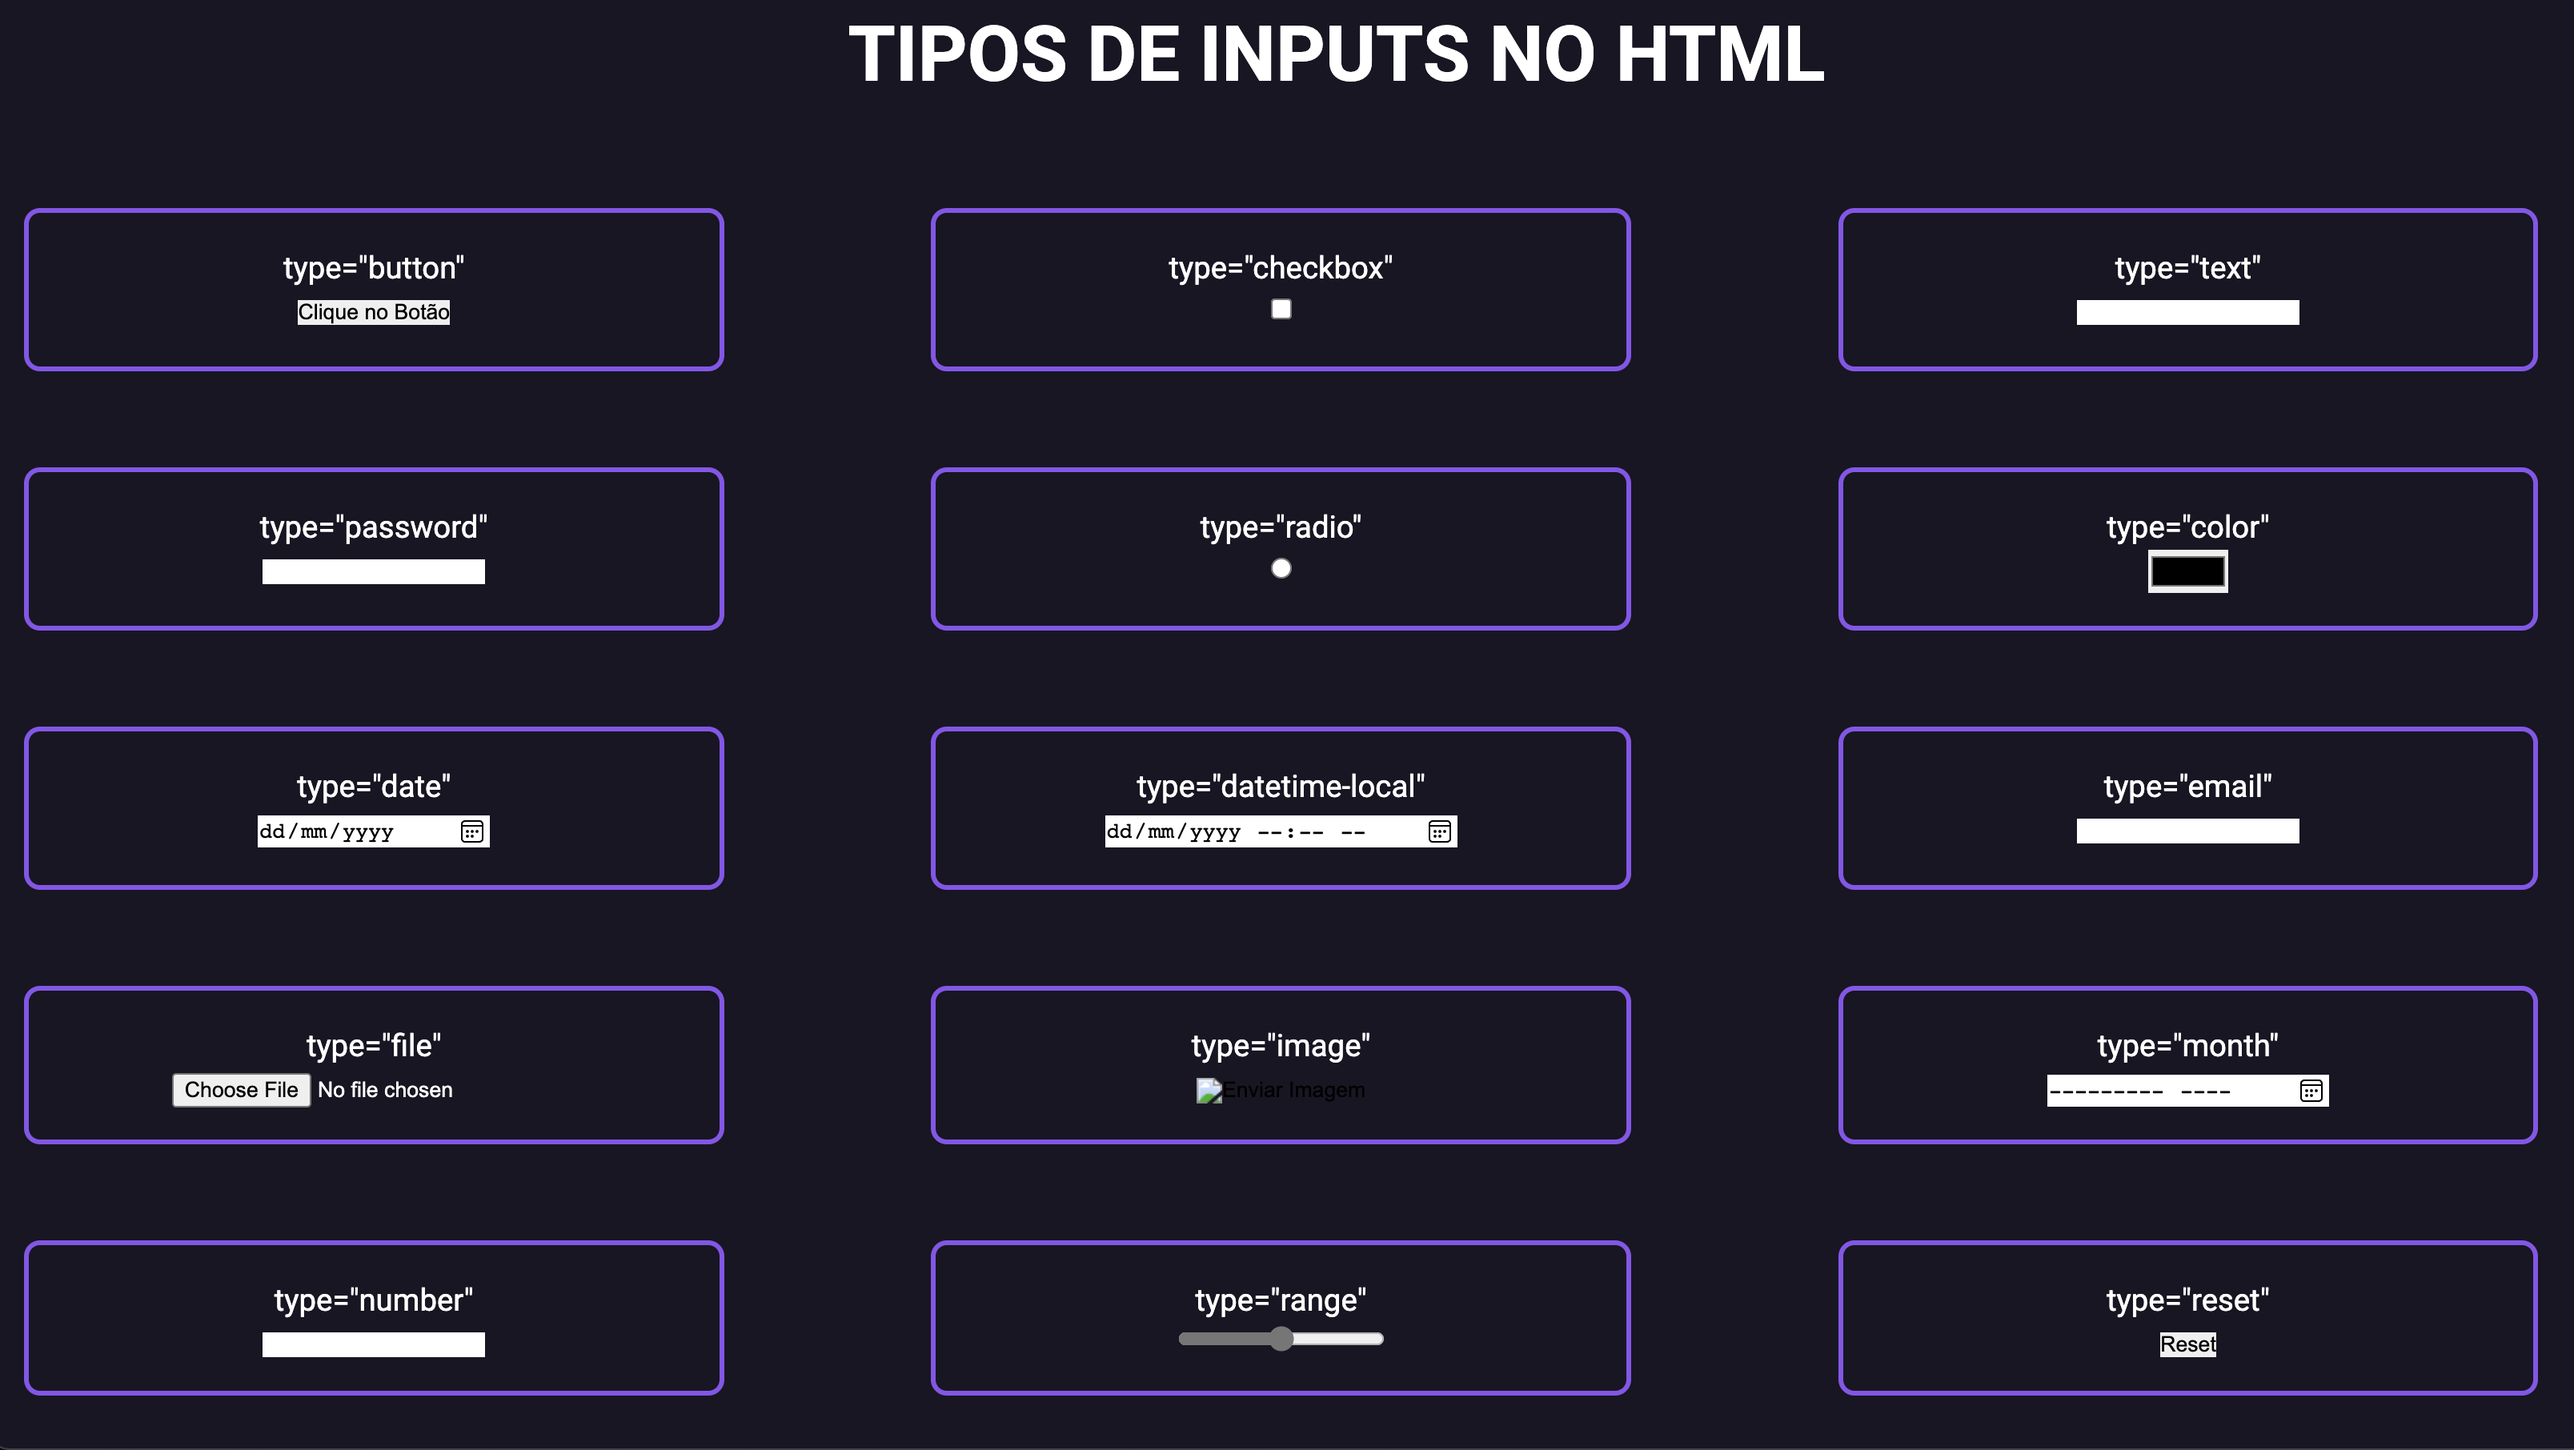
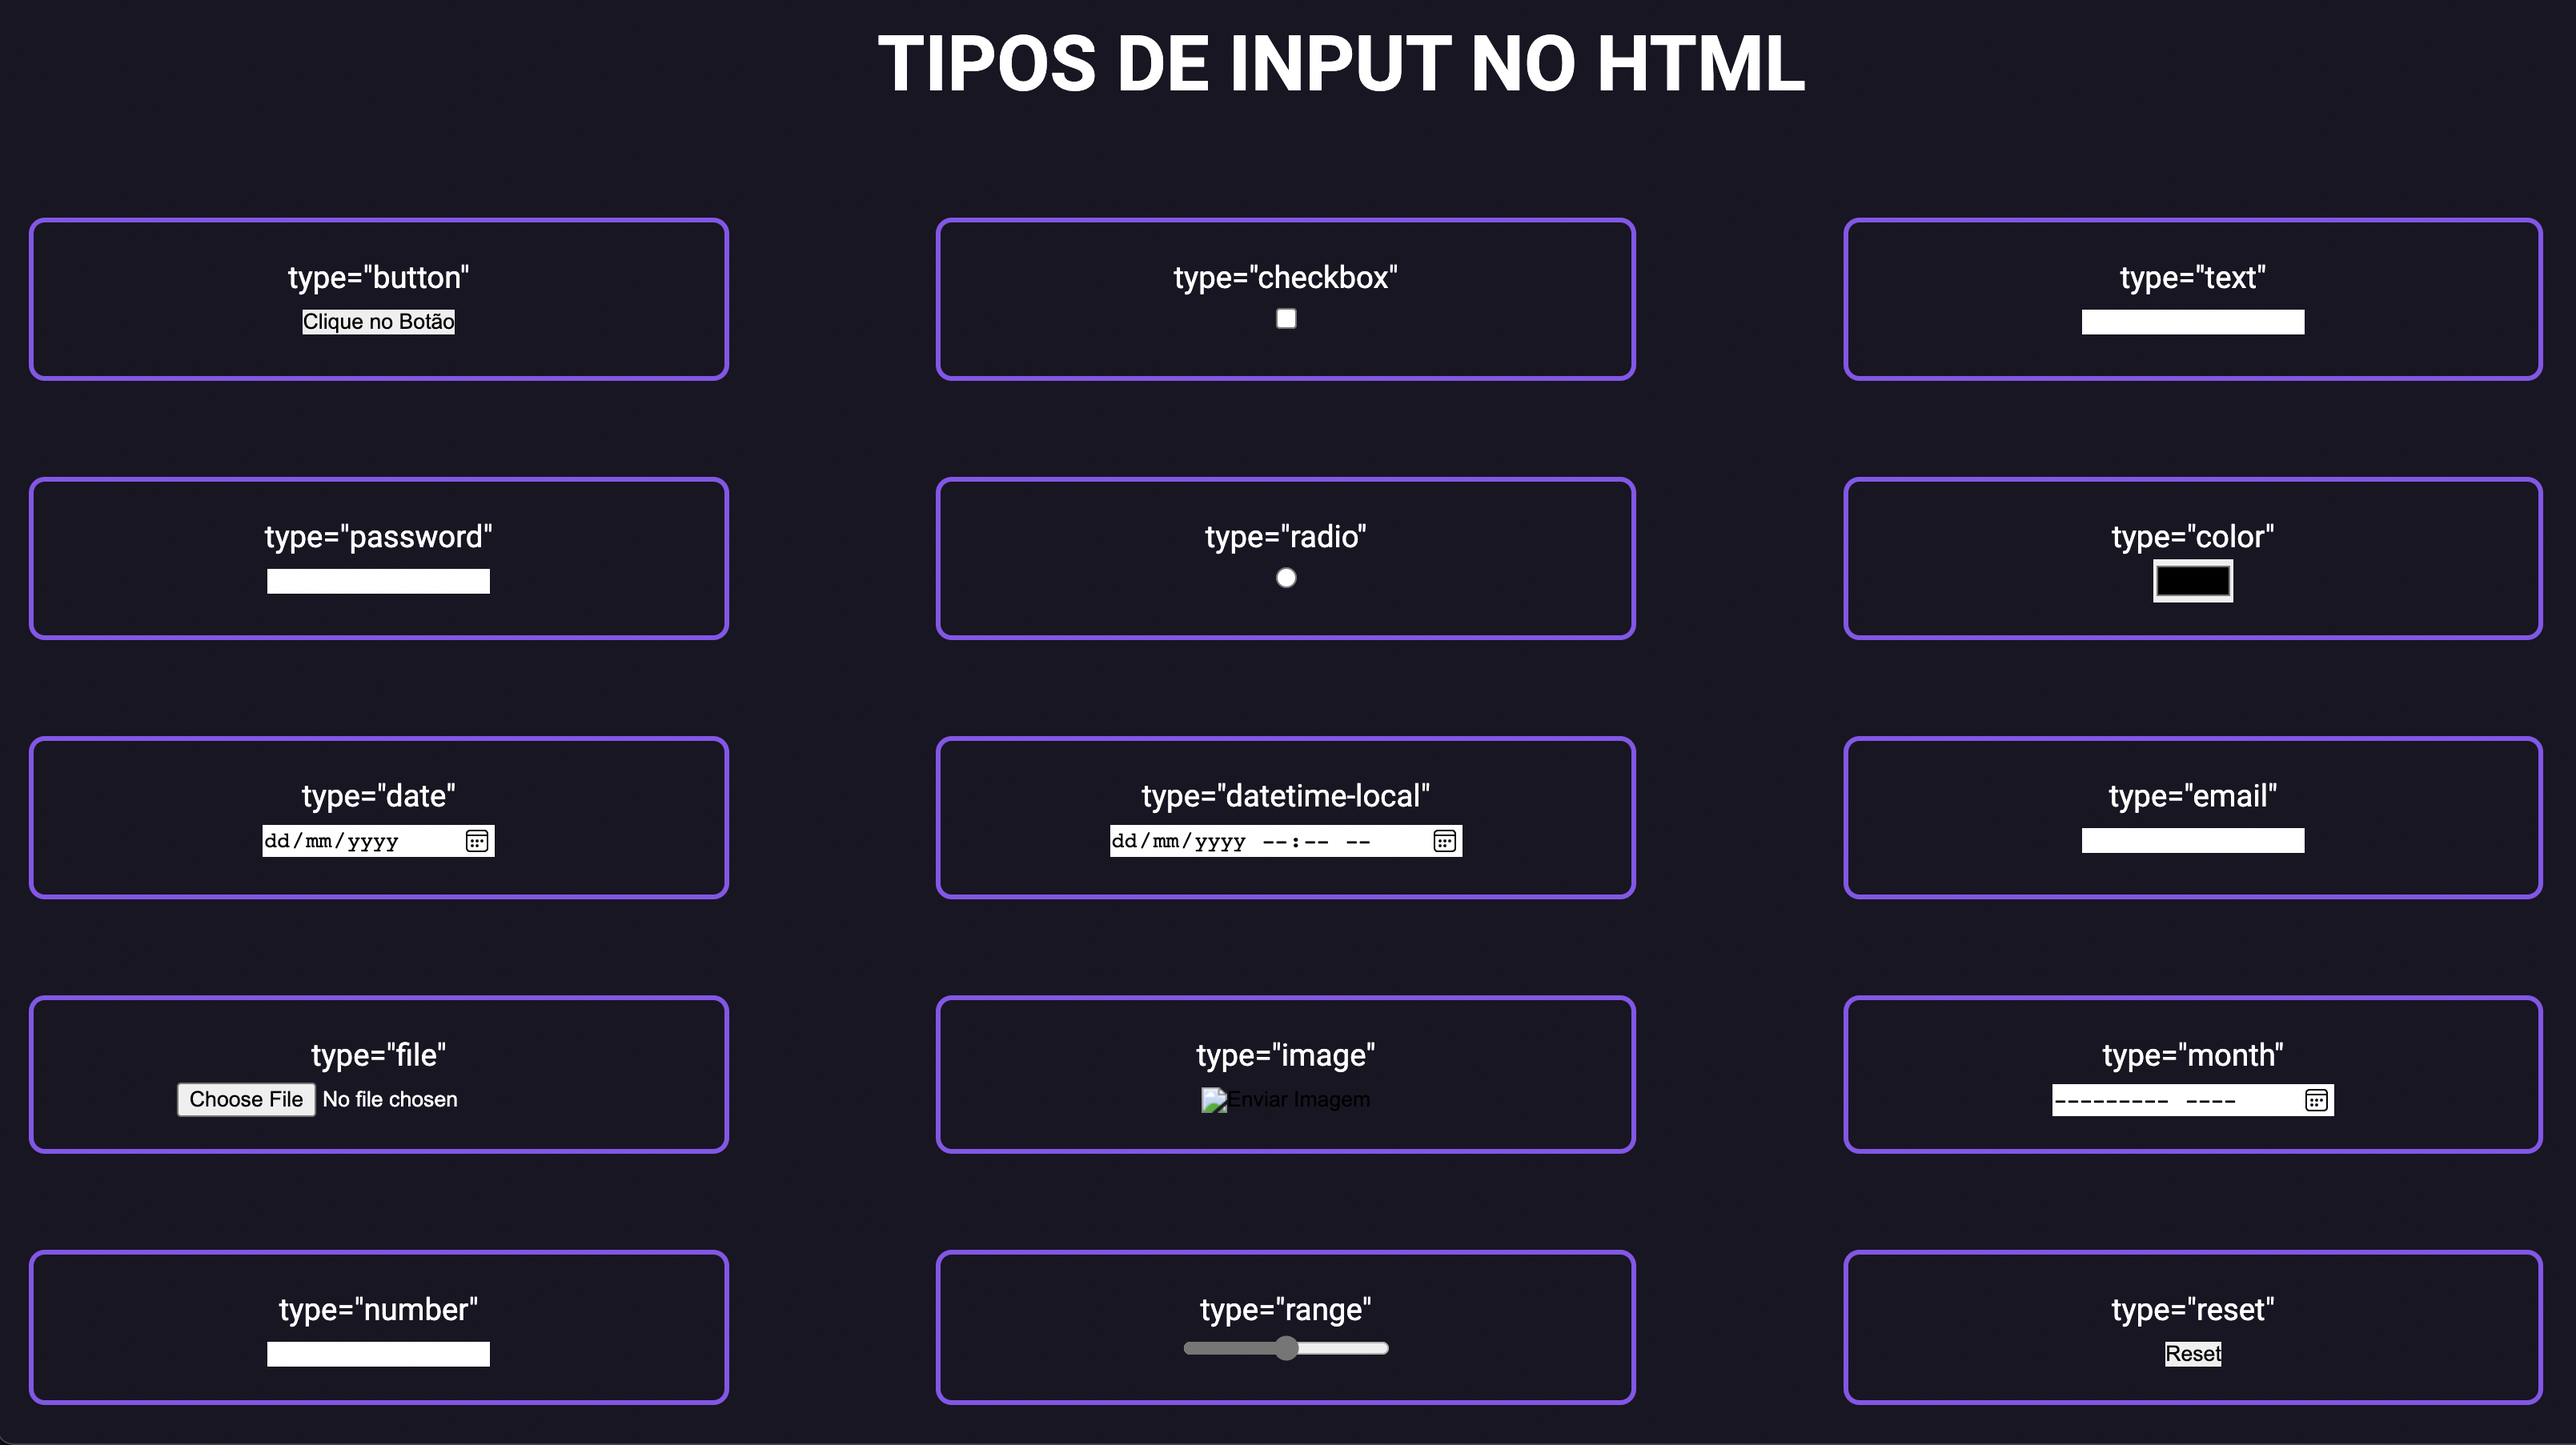
fix: typo

diff --git a/index.html b/index.html
@@ -11,7 +11,7 @@
 
 <body>
   <header>
-    <h1>Tipos de Inputs no HTML</h1>
+    <h1>Tipos de Input no HTML</h1>
   </header>
 
   <div class="container">

diff --git a/README.md b/README.md
@@ -1,5 +1,5 @@
 <h1 align="center">
- Tipos de Inputs no HTML
+ Tipos de Input no HTML
 </h1>
 
 <p align="center">
